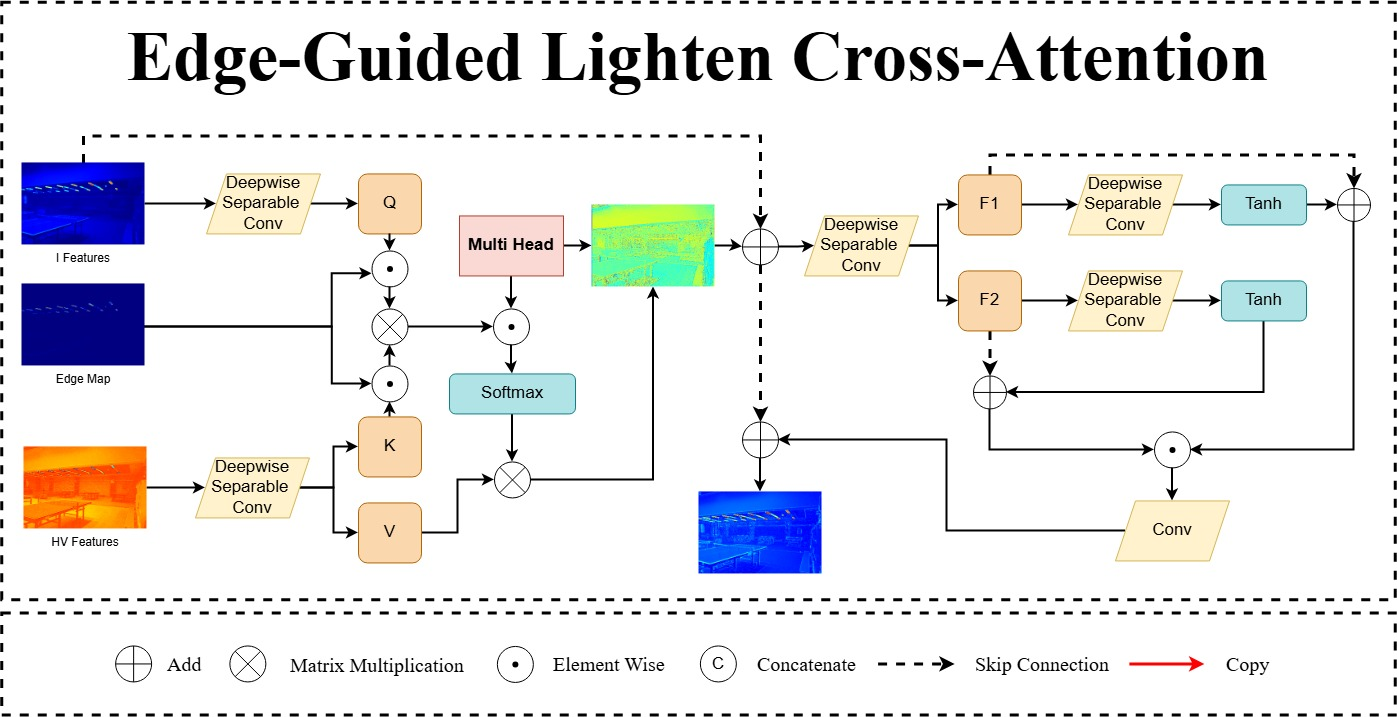
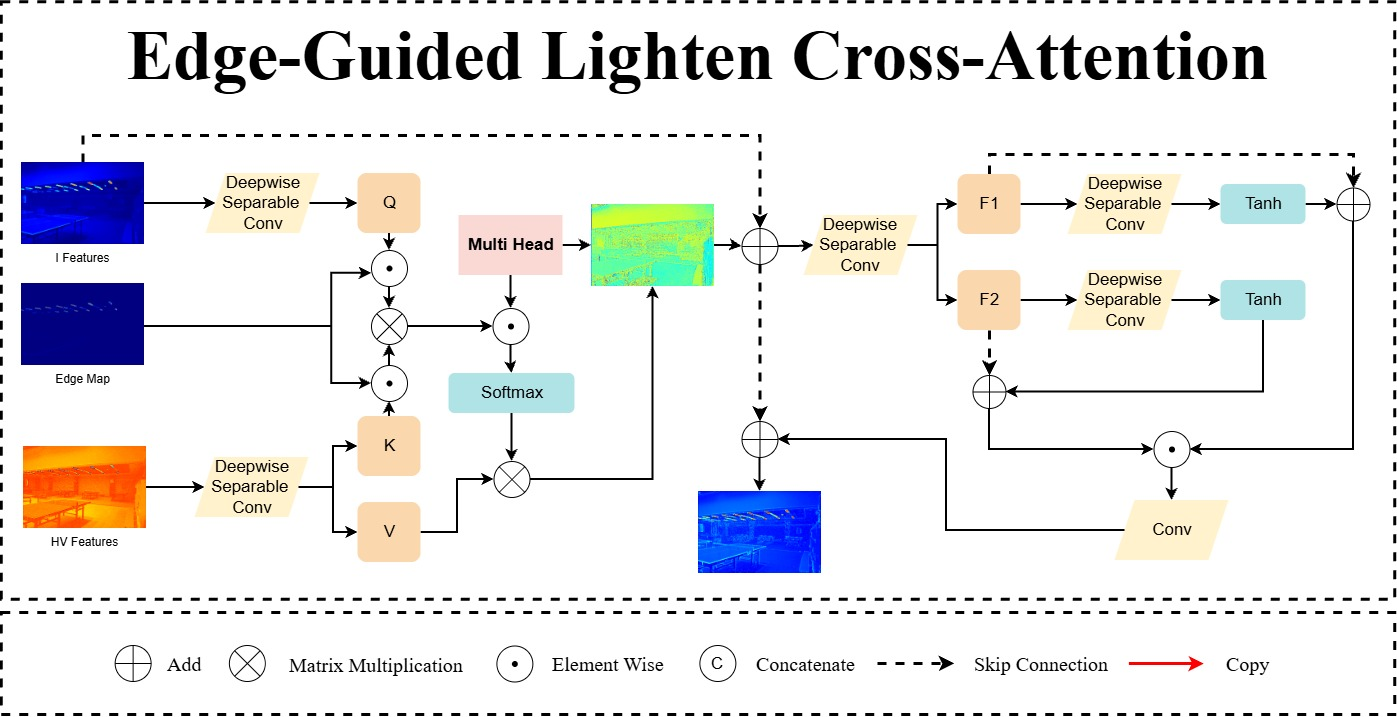
add file to inference single image

diff --git a/infer_single.py b/infer_single.py
@@ -1,0 +1,249 @@
+import os
+import sys
+import time
+import argparse
+from PIL import Image
+
+import torch
+import torch.nn.functional as F
+from torchvision import transforms
+
+# Đảm bảo console Windows hỗ trợ UTF-8
+if hasattr(sys.stdout, 'reconfigure'):
+    try:
+        sys.stdout.reconfigure(encoding='utf-8')
+        sys.stderr.reconfigure(encoding='utf-8')
+    except Exception:
+        pass
+
+# Đảm bảo có thể import các module nội bộ từ thư mục gốc
+current_dir = os.path.dirname(os.path.abspath(__file__))
+if current_dir not in sys.path:
+    sys.path.insert(0, current_dir)
+
+def load_model(weight_path, device, lol=False, v2=False, unpaired=False, alpha=1.0, alpha_s=1.3):
+    """
+    Khởi tạo mô hình CIDNet và nạp checkpoint weights.
+    Tự động phát hiện kiến trúc mô hình (có hoặc không có EdgeLCA) dựa vào checkpoint.
+    Cấu hình cờ gated / alpha tương tự như trong eval.py.
+    """
+    if not os.path.isfile(weight_path):
+        raise FileNotFoundError(f"Không tìm thấy file trọng số: {weight_path}")
+
+    print(f"[*] Đang tải weights từ: {weight_path}")
+    state_dict = torch.load(weight_path, map_location=device)
+    
+    # Hỗ trợ cả trường hợp checkpoint chứa 'state_dict' hoặc 'model' key
+    if isinstance(state_dict, dict) and 'state_dict' in state_dict:
+        state_dict = state_dict['state_dict']
+    elif isinstance(state_dict, dict) and 'model' in state_dict:
+        state_dict = state_dict['model']
+
+    # Tự động nhận diện biến thể mô hình: có EdgeLCA hay không
+    has_edge = any('edge_extractor' in k for k in state_dict.keys())
+    if has_edge:
+        print("[*] Nhận diện biến thể: IGMamba + EdgeLCA (CIDNet_Mamba_separable_learning_edge)")
+        from net.CIDNet_Mamba_separable_learning_edge import CIDNet
+    else:
+        print("[*] Nhận diện biến thể: tiêu chuẩn (CIDNet base)")
+        from net.CIDNet_base import CIDNet
+
+    model = CIDNet().to(device)
+    model.load_state_dict(state_dict, strict=False)
+    model.eval()
+
+    # Thiết lập cơ chế gated tương tự eval.py
+    if hasattr(model, 'trans'):
+        if lol:
+            model.trans.gated = True
+            model.trans.alpha_s = alpha_s
+            print(f"[*] Chế độ LOLv1: gated=True (alpha_s={alpha_s})")
+        elif v2:
+            model.trans.gated2 = True
+            model.trans.alpha = alpha
+            print(f"[*] Chế độ LOLv2: gated2=True, alpha={alpha}")
+        elif unpaired:
+            model.trans.gated2 = True
+            model.trans.alpha = alpha
+            print(f"[*] Chế độ Unpaired: gated2=True, alpha={alpha}")
+        else:
+            # Nếu người dùng truyền custom alpha/alpha_s mà không chọn preset
+            if alpha != 1.0:
+                model.trans.gated2 = True
+                model.trans.alpha = alpha
+                print(f"[*] Tuỳ chỉnh: gated2=True, alpha={alpha}")
+            if alpha_s != 1.3:
+                model.trans.gated = True
+                model.trans.alpha_s = alpha_s
+                print(f"[*] Tuỳ chỉnh: gated=True, alpha_s={alpha_s}")
+
+    return model
+
+
+def infer_single_image(model, input_path, output_path, device, gamma=1.0, pad_factor=8):
+    """
+    Thực hiện tăng cường sáng cho 1 ảnh đơn lẻ:
+    1. Đọc ảnh RGB
+    2. Reflection pad để kích thước chia hết cho pad_factor (mặc định là 8 do mạng có 3 lần downsample)
+    3. Feed qua mô hình với input ** gamma
+    4. Cắt bỏ padding (crop về kích thước gốc)
+    5. Clamp [0, 1] và lưu ảnh ra file
+    """
+    if not os.path.isfile(input_path):
+        raise FileNotFoundError(f"Không tìm thấy file ảnh đầu vào: {input_path}")
+
+    print(f"[*] Đang đọc ảnh: {input_path}")
+    img = Image.open(input_path).convert('RGB')
+    orig_w, orig_h = img.size
+    print(f"[*] Kích thước gốc: {orig_w}x{orig_h} (Width x Height)")
+
+    # Chuyển thành Tensor [1, 3, H, W] trong dải [0, 1]
+    tensor_in = transforms.ToTensor()(img).unsqueeze(0).to(device)
+
+    # Padding kích thước chia hết cho pad_factor (tương tự DatasetFromFolderEval / SICE trong data)
+    h, w = orig_h, orig_w
+    H = ((h + pad_factor - 1) // pad_factor) * pad_factor
+    W = ((w + pad_factor - 1) // pad_factor) * pad_factor
+    pad_h = H - h
+    pad_w = W - w
+
+    if pad_h > 0 or pad_w > 0:
+        # pad thứ tự: (pad_left, pad_right, pad_top, pad_bottom)
+        tensor_in = F.pad(tensor_in, (0, pad_w, 0, pad_h), mode='reflect')
+        print(f"[*] Đã pad ảnh lên kích thước: {W}x{H} (bội số của {pad_factor})")
+
+    start_time = time.time()
+    with torch.no_grad():
+        # gamma correction cho đầu vào tương tự eval.py
+        model_input = tensor_in ** gamma
+        output = model(model_input)
+        output = torch.clamp(output, 0.0, 1.0)
+
+        # Cắt về kích thước gốc nếu đã pad
+        if pad_h > 0 or pad_w > 0:
+            output = output[:, :, :h, :w]
+
+    elapsed = (time.time() - start_time) * 1000
+    print(f"[*] Thời gian xử lý mạng (Inference time): {elapsed:.2f} ms")
+
+    # Lưu ảnh kết quả
+    output_dir = os.path.dirname(output_path)
+    if output_dir and not os.path.exists(output_dir):
+        os.makedirs(output_dir, exist_ok=True)
+
+    output_pil = transforms.ToPILImage()(output.squeeze(0).cpu())
+    output_pil.save(output_path)
+    print(f"[✓] Ảnh kết quả đã được lưu tại: {output_path}")
+
+    if device.type == 'cuda':
+        torch.cuda.empty_cache()
+
+    return output_pil
+
+
+def main():
+    parser = argparse.ArgumentParser(description='Inference 1 ảnh đơn lẻ với mô hình IGMamba / CIDNet LLIE')
+    
+    # Tham số đầu vào & đầu ra
+    parser.add_argument('--input', '-i', type=str, required=True, help='Đường dẫn đến file ảnh tối cần xử lý')
+    parser.add_argument('--output', '-o', type=str, default=None, help='Đường dẫn file ảnh đầu ra (mặc định lưu tại ./output/<tên_gốc>_enhanced.png)')
+    parser.add_argument('--weight', '-w', type=str, default=None, help='Đường dẫn file trọng số .pth')
+
+    # Preset trọng số và chế độ theo bộ dữ liệu (tương tự eval.py)
+    parser.add_argument('--lol', action='store_true', help='Preset bộ dữ liệu LOLv1 (gated=True)')
+    parser.add_argument('--lol_v2_real', action='store_true', help='Preset bộ dữ liệu LOLv2-Real (gated2=True, alpha=0.8)')
+    parser.add_argument('--lol_v2_syn', action='store_true', help='Preset bộ dữ liệu LOLv2-Synthetic (gated2=True)')
+    parser.add_argument('--unpaired', action='store_true', help='Preset ảnh chụp thực tế không có cặp / Unpaired (gated2=True)')
+
+    # Tuỳ chỉnh tham số nâng cao
+    parser.add_argument('--alpha', type=float, default=None, help='Hệ số khuếch đại ánh sáng alpha (mặc định: 0.8 cho lol_v2_real, 1.0 cho chế độ khác)')
+    parser.add_argument('--alpha_s', type=float, default=1.3, help='Hệ số bão hòa màu alpha_s (mặc định: 1.3)')
+    parser.add_argument('--gamma', type=float, default=1.0, help='Hệ số gamma cho ảnh đầu vào (input ** gamma, mặc định: 1.0)')
+    parser.add_argument('--pad_factor', type=int, default=8, help='Bội số padding kích thước ảnh (mặc định: 8)')
+    parser.add_argument('--cpu', action='store_true', help='Ép chạy trên CPU ngay cả khi có GPU CUDA')
+
+    args = parser.parse_args()
+
+    # 1. Chọn Device
+    if args.cpu or not torch.cuda.is_available():
+        device = torch.device('cpu')
+        print("[*] Sử dụng thiết bị: CPU")
+    else:
+        device = torch.device('cuda')
+        print(f"[*] Sử dụng thiết bị: GPU ({torch.cuda.get_device_name(0)})")
+
+    # 2. Xác định file trọng số & tham số mặc định dựa vào preset (giống eval.py)
+    weight_path = args.weight
+    alpha = args.alpha
+
+    if args.lol:
+        if weight_path is None:
+            weight_path = os.path.join(current_dir, 'pretrained_models', 'LOLv1', 'best_PSNR.pth')
+        if alpha is None:
+            alpha = 1.0
+    elif args.lol_v2_real:
+        if weight_path is None:
+            weight_path = os.path.join(current_dir, 'pretrained_models', 'LOLv2_Real', 'best_PSNR.pth')
+        if alpha is None:
+            alpha = 0.8  # Giá trị tối ưu cho LOLv2-Real trong eval.py
+    elif args.lol_v2_syn:
+        if weight_path is None:
+            weight_path = os.path.join(current_dir, 'pretrained_models', 'LOLv2_Syn', 'best_PSNR.pth')
+        if alpha is None:
+            alpha = 1.0
+    elif args.unpaired:
+        if weight_path is None:
+            weight_path = os.path.join(current_dir, 'pretrained_models', 'Unpaired', 'best_NIQE.pth')
+        if alpha is None:
+            alpha = 1.0
+    else:
+        # Mặc định nếu không chỉ định preset cụ thể
+        if weight_path is None:
+            # Ưu tiên LOLv1 best_PSNR hoặc file có sẵn trong repo
+            candidate_weights = [
+                os.path.join(current_dir, 'pretrained_models', 'LOLv1', 'best_PSNR.pth'),
+                os.path.join(current_dir, 'pretrained_models', 'LOLv2_Real', 'best_PSNR.pth'),
+                os.path.join(current_dir, 'weights', 'LOLv1', 'w_perc.pth'),
+            ]
+            for cw in candidate_weights:
+                if os.path.isfile(cw):
+                    weight_path = cw
+                    break
+            if weight_path is None:
+                raise ValueError("Vui lòng chỉ định đường dẫn file trọng số qua tham số --weight <đường_dẫn>")
+        if alpha is None:
+            alpha = 1.0
+
+    # 3. Xác định đường dẫn file đầu ra
+    output_path = args.output
+    if output_path is None:
+        base_name = os.path.basename(args.input)
+        name_without_ext, ext = os.path.splitext(base_name)
+        if not ext:
+            ext = '.png'
+        output_path = os.path.join(current_dir, 'output', f"{name_without_ext}_enhanced{ext}")
+
+    # 4. Load model
+    model = load_model(
+        weight_path=weight_path,
+        device=device,
+        lol=args.lol,
+        v2=args.lol_v2_real,
+        unpaired=args.unpaired,
+        alpha=alpha,
+        alpha_s=args.alpha_s
+    )
+
+    # 5. Chạy inference
+    infer_single_image(
+        model=model,
+        input_path=args.input,
+        output_path=output_path,
+        device=device,
+        gamma=args.gamma,
+        pad_factor=args.pad_factor
+    )
+
+
+if __name__ == '__main__':
+    main()

diff --git a/data/options.py b/data/options.py
@@ -11,7 +11,7 @@ def _str2bool(v):
 def option():
     # Training settings
     parser = argparse.ArgumentParser(description='CIDNet')
-    parser.add_argument('--batchSize', type=int, default=4, help='training batch size')
+    parser.add_argument('--batchSize', type=int, default=8, help='training batch size')
     parser.add_argument('--cropSize', type=int, default=256, help='image crop size (patch size)')
     parser.add_argument('--nEpochs', type=int, default=1000, help='number of epochs to train for end')
     parser.add_argument('--start_epoch', type=int, default=0, help='number of epochs to start, >0 is retrained a pre-trained pth')
@@ -31,7 +31,7 @@ def option():
 
     # train datasets
     parser.add_argument('--data_train_lol_blur'     , type=str, default='./datasets/LOL_blur/train')
-    parser.add_argument('--data_train_lol_v1'       , type=str, default='E:/PythonFile/Project/Low-Light-Image-Enhancement/mydata/dataset/dataset/LOLv1/train')
+    parser.add_argument('--data_train_lol_v1'       , type=str, default='/content/LOLv1/train')
     parser.add_argument('--data_train_lolv2_real'   , type=str, default='/kaggle/input/datasets/vinhnub/lolv2-real/LOLv2-real/Train')
     parser.add_argument('--data_train_lolv2_syn'    , type=str, default='./datasets/LOLv2/Synthetic/Train')
     parser.add_argument('--data_train_SID'          , type=str, default='C:/Users/admin/Downloads/Sony_total_dark/Sony_total_dark/train')
@@ -41,7 +41,7 @@ def option():
 
     # validation input
     parser.add_argument('--data_val_lol_blur'       , type=str, default='./datasets/LOL_blur/eval/low_blur')
-    parser.add_argument('--data_val_lol_v1'         , type=str, default='E:/PythonFile/Project/Low-Light-Image-Enhancement/mydata/dataset/dataset/LOLv1/test/low')
+    parser.add_argument('--data_val_lol_v1'         , type=str, default='/content/LOLv1/test/low')
     parser.add_argument('--data_val_lolv2_real'     , type=str, default='/kaggle/input/datasets/vinhnub/lolv2-real/LOLv2-real/Test/Input')
     parser.add_argument('--data_val_lolv2_syn'      , type=str, default='./datasets/LOLv2/Synthetic/Test/Low')
     parser.add_argument('--data_val_SID'            , type=str, default='C:/Users/admin/Downloads/Sony_total_dark/Sony_total_dark/eval/short')
@@ -52,7 +52,7 @@ def option():
 
     # validation groundtruth
     parser.add_argument('--data_valgt_lol_blur'     , type=str, default='./datasets/LOL_blur/eval/high_sharp_scaled/')
-    parser.add_argument('--data_valgt_lol_v1'       , type=str, default='E:/PythonFile/Project/Low-Light-Image-Enhancement/mydata/dataset/dataset/LOLv1/test/high/')
+    parser.add_argument('--data_valgt_lol_v1'       , type=str, default='/content/LOLv1/test/high/')
     parser.add_argument('--data_valgt_lolv2_real'   , type=str, default='/kaggle/input/datasets/vinhnub/lolv2-real/LOLv2-real/Test/GT/')
     parser.add_argument('--data_valgt_lolv2_syn'    , type=str, default='./datasets/LOLv2/Synthetic/Test/Normal/')
     parser.add_argument('--data_valgt_SID'          , type=str, default='C:/Users/admin/Downloads/Sony_total_dark/Sony_total_dark/eval/long/')
@@ -73,7 +73,7 @@ def option():
     parser.add_argument('--LSGD_weight', type=float, default=1.0)
     parser.add_argument('--dark_focus', type=_str2bool, default=True, help='Enable dark focus for both IG_Mamba and LSGD loss (False focuses on bright regions)')
     parser.add_argument('--number_warmup_epoch', '--number_warmup_epochs', type=int, default=0, help='Number of warmup epochs for loss weights where weights are 0')
-    parser.add_argument('--number_transition_epoch', '--number_transition_epochs', type=int, default=1, help='Number of transition epochs for loss weights to linearly scale from 0 to 1')
+    parser.add_argument('--number_transition_epoch', '--number_transition_epochs', type=int, default=0, help='Number of transition epochs for loss weights to linearly scale from 0 to 1')
     
     # use random gamma function (enhancement curve) to improve generalization
     parser.add_argument('--gamma', type=_str2bool, default=False)

diff --git a/train.py b/train.py
@@ -395,18 +395,18 @@ if __name__ == '__main__':
             psnr.append(avg_psnr)
             ssim.append(avg_ssim)
             lpips.append(avg_lpips)
-            print(psnr)
-            print(ssim)
-            print(lpips)
+            # print(psnr)
+            # print(ssim)
+            # print(lpips)
             with open(f"./results/training/metrics{now}.md", "a") as f:
                 f.write(f"| {epoch} | {detailed_losses['total']:.4f} | {detailed_losses['l1']:.4f} | {detailed_losses['l2']:.4f} | {detailed_losses['d']:.4f} | {detailed_losses['p']:.4f} | {detailed_losses['e']:.4f} | {detailed_losses['lsgd']:.4f} | {detailed_losses['exp']:.4f} | {avg_psnr:.4f} | {avg_ssim:.4f} | {avg_lpips:.4f} | - |\n") 
 
             # --- Eval with GT Mean
-            avg_psnr, avg_ssim, avg_lpips = metrics(im_dir, label_dir, use_GT_mean=True)
-            print("===> Avg.PSNR (GT): {:.4f} dB ".format(avg_psnr))
-            print("===> Avg.SSIM (GT): {:.4f} ".format(avg_ssim))
-            print("===> Avg.LPIPS (GT): {:.4f} ".format(avg_lpips))
-            with open(f"./results/training/metrics{now}.md", "a") as f:
-                f.write(f"| {epoch} | {detailed_losses['total']:.4f} | {detailed_losses['l1']:.4f} | {detailed_losses['l2']:.4f} | {detailed_losses['d']:.4f} | {detailed_losses['p']:.4f} | {detailed_losses['e']:.4f} | {detailed_losses['lsgd']:.4f} | {detailed_losses['exp']:.4f} | {avg_psnr:.4f} | {avg_ssim:.4f} | {avg_lpips:.4f} | GT Mean |\n") 
+            # avg_psnr, avg_ssim, avg_lpips = metrics(im_dir, label_dir, use_GT_mean=True)
+            # print("===> Avg.PSNR (GT): {:.4f} dB ".format(avg_psnr))
+            # print("===> Avg.SSIM (GT): {:.4f} ".format(avg_ssim))
+            # print("===> Avg.LPIPS (GT): {:.4f} ".format(avg_lpips))
+            # with open(f"./results/training/metrics{now}.md", "a") as f:
+            #     f.write(f"| {epoch} | {detailed_losses['total']:.4f} | {detailed_losses['l1']:.4f} | {detailed_losses['l2']:.4f} | {detailed_losses['d']:.4f} | {detailed_losses['p']:.4f} | {detailed_losses['e']:.4f} | {detailed_losses['lsgd']:.4f} | {detailed_losses['exp']:.4f} | {avg_psnr:.4f} | {avg_ssim:.4f} | {avg_lpips:.4f} | GT Mean |\n") 
 
         torch.cuda.empty_cache()

diff --git a/eval.py b/eval.py
@@ -6,7 +6,7 @@ from data.data import *
 from torchvision import transforms
 from torch.utils.data import DataLoader
 from loss.losses import *
-from net.CIDNet_Mamba_separable_learning import CIDNet
+from net.CIDNet_Mamba_separable_learning_edge import CIDNet
 
 
 def eval(model, testing_data_loader, model_path, output_folder,norm_size=True,LOL=False,v2=False,unpaired=False,alpha=1.0,gamma=1.0):
@@ -107,7 +107,7 @@ if __name__ == '__main__':
             weight_path = './weights/LOLv2_real/w_perc.pth'
             alpha = 0.84
         elif ep.best_PSNR:
-            weight_path = r"E:\PythonFile\Project\IGMamba-EdgeLCA-LLIE\weights_and_results\LoLv2_Real\Mamba_SL_IG_EdgeLCA\Denoise\w-Loss\epoch_255_best_PSNR.pth"
+            weight_path = r"E:\PythonFile\Project\IGMamba-EdgeLCA-LLIE\weights_and_results\LoLv2_Real\wo-Deltamod\epoch_220.pth"
             alpha = 0.8
         elif ep.best_SSIM:
             weight_path = r"E:\PythonFile\Project\IGMamba-EdgeLCA-LLIE\weights_cidnet\LOLv2_real\best_SSIM.pth"
